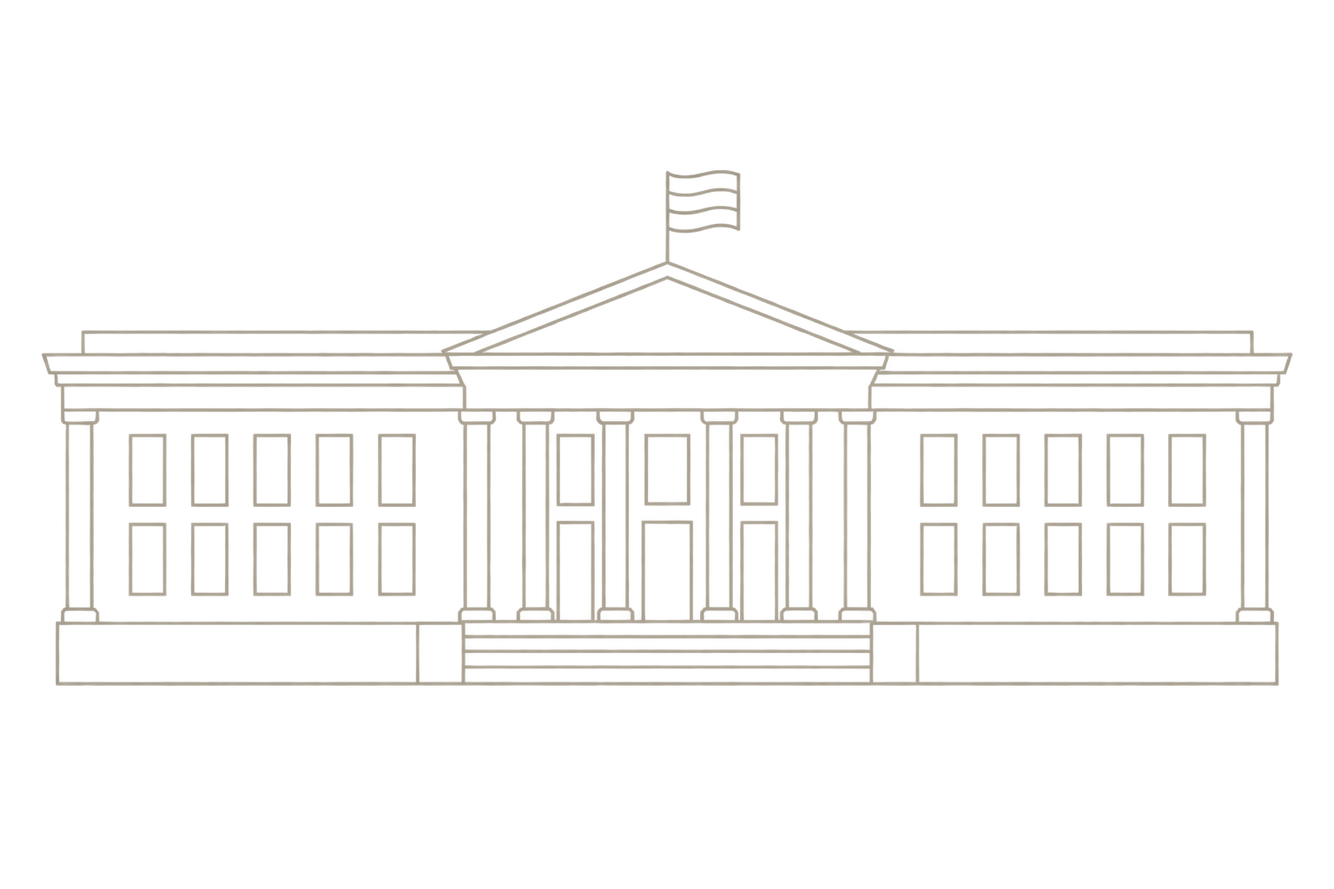
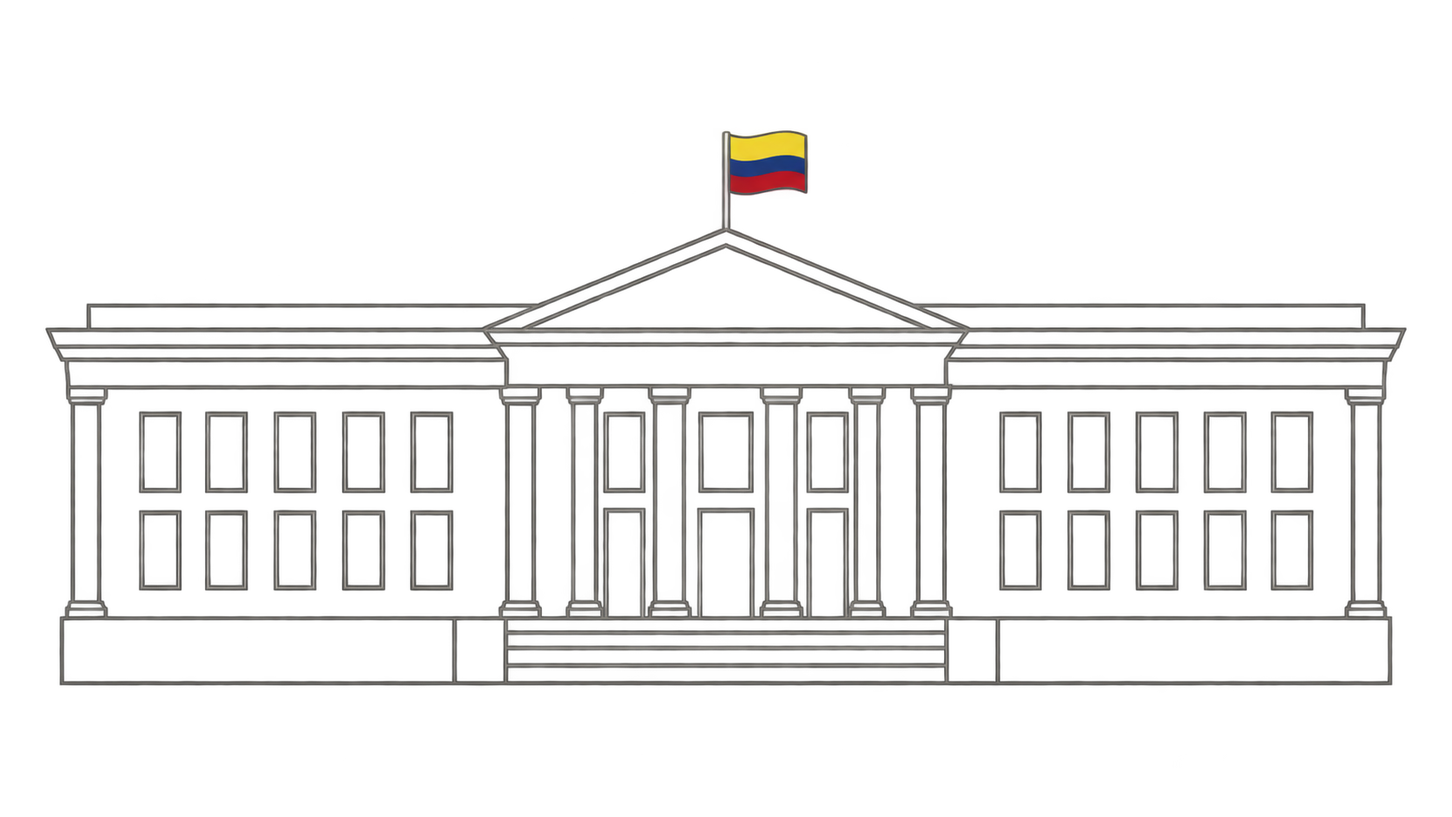
hero: glass effect on floating pills, reposition Tu informacion pill to the right, cache bust new bg drawings

Changed region(s): [[0.0312, 0.1541, 0.9688, 0.8629]]

diff --git a/app/globals.css b/app/globals.css
@@ -1,5 +1,5 @@
 :root{--ink:#2c2526;--muted:#736968;--purple:#6b2d3e;--purple-dark:#52222f;--lavender:#f1e8dc;--lavender-soft:#f7f2ea;--line:#e6ded0;--paper:#fbf8f3;--white:#fff;--peach:#f3ebe0;--danger:#9d374c;--radius:20px;--shadow:0 16px 50px rgba(44,37,38,0.07)}
-*{box-sizing:border-box}html{scroll-behavior:smooth;scroll-padding-top:28px}body{margin:0;background:var(--paper);color:var(--ink);font-family:Inter,ui-sans-serif,-apple-system,BlinkMacSystemFont,'Segoe UI',sans-serif;font-size:15px;line-height:1.6}button,input,select,textarea{font:inherit}button,a,input,select,textarea{-webkit-tap-highlight-color:transparent}button{cursor:pointer}button:disabled{cursor:not-allowed;opacity:.5}a{color:inherit;text-decoration:none}button{color:inherit}h1,h2,h3,h4,p{margin-top:0}h1,h2,h3{line-height:1.17;letter-spacing:-.035em}h1{font-size:48px}h2{font-size:34px}h3{font-size:21px}h4{margin-bottom:7px;letter-spacing:-.01em}p{color:var(--muted)}svg{flex-shrink:0;stroke-width:1.65}::selection{background:#f1d6dd}button:focus-visible,a:focus-visible,input:focus-visible,select:focus-visible,textarea:focus-visible,summary:focus-visible{outline:3px solid #6b2d3e;outline-offset:4px}button{transition:background .18s,transform .18s,box-shadow .18s}button:active:not(:disabled){transform:translateY(1px)}.wrap{width:min(1180px,calc(100% - 80px));margin-inline:auto}.button{display:inline-flex;align-items:center;justify-content:center;gap:11px;min-height:50px;padding:13px 25px;border:1px solid transparent;border-radius:25px;background:var(--purple);color:white;font-weight:600;font-size:14px;letter-spacing:.005em;box-shadow:0 4px 14px rgba(107,45,62,0.18)}.button:hover:not(:disabled){background:var(--purple-dark);box-shadow:0 7px 22px rgba(107,45,62,0.28)}.button.small{min-height:40px;padding:9px 18px;font-size:13px;border-radius:20px}.button.outline{background:transparent;border-color:#dcd1c0;color:var(--ink);box-shadow:none}.button.outline:hover:not(:disabled){background:var(--lavender);border-color:var(--line)}.button.light{background:white;color:var(--purple-dark)}.text-button,.quiet-link,.back-button{border:0;background:none;display:inline-flex;align-items:center;gap:8px;padding:0;color:var(--ink);font-size:13px;font-weight:600}.text-button:hover,.quiet-link:hover{text-decoration:underline}.icon-button{display:inline-flex;align-items:center;justify-content:center;width:36px;height:36px;padding:0;border:0;background:transparent;border-radius:9px}.icon-button:hover{background:var(--lavender)}.brand{font-size:28px;letter-spacing:-1.5px;font-weight:750;white-space:nowrap;color:var(--ink)}.brand>span:not(.brand-dot){font-weight:430}.brand-dot{color:var(--purple);font-weight:800}.public-header{height:104px;display:flex;align-items:center;justify-content:space-between}.public-header nav{display:flex;align-items:center;gap:35px;font-size:13px}.public-header nav a:hover{color:var(--purple)}.public-header nav .text-button{color:var(--ink);font-weight:400}.hero{display:grid;grid-template-columns:1fr 1.05fr;align-items:center;min-height:640px;gap:40px;padding-top:20px;padding-bottom:50px;position:relative;overflow:visible}.eyebrow{display:flex;align-items:center;gap:9px;font-size:12px;letter-spacing:.02em;color:var(--muted);margin-bottom:27px}.tiny-dot{display:inline-block;width:6px;height:6px;border-radius:50%;background:var(--purple);flex-shrink:0}.hero h1{font-size:clamp(46px,4.8vw,68px);font-weight:700;letter-spacing:-.045em;line-height:1.08;margin-bottom:25px;color:var(--ink)}.hero h1 em{font-family:Georgia,'Times New Roman',serif;font-weight:400;font-style:italic;color:var(--purple);letter-spacing:-.04em}.hero-description{font-size:17px;line-height:1.75;max-width:440px;color:var(--muted)}.hero-actions{display:flex;gap:25px;align-items:center;margin-top:31px}.quiet-link{color:var(--ink);font-size:13px;font-weight:600}.quiet-link span{font-size:16px;margin-left:4px}.hero-note{display:flex;gap:8px;align-items:center;font-size:11px;color:var(--muted);margin-top:26px}.hero-visual{position:relative;isolation:isolate;min-height:540px;width:100%;display:flex;align-items:center;justify-content:center;margin-top:10px}.bg-drawing-1{position:absolute;right:-200px;top:-20px;width:460px;height:auto;opacity:.30;pointer-events:none;z-index:-1;mix-blend-mode:multiply}.bg-drawing-2{position:absolute;right:-150px;top:270px;width:380px;height:auto;opacity:.20;pointer-events:none;z-index:-1;mix-blend-mode:multiply}.hero-img{max-width:100%;height:auto;display:block}.layer-expediente{position:absolute;left:-80px;top:110px;width:360px;z-index:1;transform:rotate(-15deg);filter:drop-shadow(0 14px 40px rgba(60,45,35,0.12));animation:folder-left-enter 1s cubic-bezier(0.16,1,0.3,1) both, float-y 5s ease-in-out infinite 1s;transition:transform 0.4s ease}.layer-expediente:hover{transform:rotate(-19deg) scale(1.02) translateX(-10px)}.layer-tutela{position:absolute;right:-160px;top:105px;width:390px;z-index:2;filter:drop-shadow(0 16px 45px rgba(50,40,30,0.11));animation:folder-right-enter 1.1s cubic-bezier(0.16,1,0.3,1) both 0.1s, float-y-alt 6.5s ease-in-out infinite 1.2s;transition:transform 0.4s ease}.layer-tutela:hover{transform:rotate(16deg) scale(1.02) translateX(10px)}.layer-tu-caso-wrapper{position:relative;top:-45px;width:430px;z-index:4;filter:drop-shadow(0 25px 50px rgba(50,30,40,0.16));animation:folder-center-enter 0.9s cubic-bezier(0.16,1,0.3,1) both 0.2s, float-y 7s ease-in-out infinite 1.1s;transition:transform 0.4s ease}.layer-tu-caso-wrapper:hover{transform:translateY(-8px) rotate(-3.5deg) scale(1.01)}.layer-tu-caso{width:100%;height:auto;display:block}.tu-caso-overlay{position:absolute;left:72px;right:98px;top:128px;bottom:40px;display:flex;flex-direction:column;pointer-events:none;overflow:hidden}@keyframes folder-left-enter{0%{opacity:0;transform:translate(-30px, 30px) rotate(-6deg) scale(0.95)}100%{opacity:1;transform:translate(0, 0) rotate(-12deg) scale(1)}}@keyframes folder-right-enter{0%{opacity:0;transform:translate(30px, 30px) rotate(4deg) scale(0.95)}100%{opacity:1;transform:translate(0, 0) rotate(12deg) scale(1)}}@keyframes folder-center-enter{0%{opacity:0;transform:translateY(40px) rotate(0deg) scale(0.95)}100%{opacity:1;transform:translateY(0) rotate(-3.5deg) scale(1)}}@keyframes float-y{0%,100%{translate:0 0}50%{translate:0 -8px}}@keyframes float-y-alt{0%,100%{translate:0 0}50%{translate:0 -12px}}.tu-caso-overlay h2{font-size:22px;line-height:1.15;font-weight:700;color:var(--ink);margin-bottom:6px}.tu-caso-overlay p{font-size:11.5px;color:var(--muted);margin-bottom:15px}.card-top-row{display:flex;align-items:center;justify-content:space-between;gap:6px;margin-bottom:10px}.card-top-row .overline{font-size:8px;font-weight:700;letter-spacing:.08em;color:var(--purple);margin:0;white-space:nowrap;overflow:hidden;text-overflow:ellipsis}.badge-progress{background:#efe7db;color:var(--ink);font-size:8.5px;font-weight:600;padding:2px 7px;border-radius:12px;border:1px solid #e2d6c4;white-space:nowrap;flex-shrink:0}.card-item-row{display:flex;align-items:center;gap:8px;background:#f9f5ee;border:1px solid #eee4d5;border-radius:12px;padding:9px 12px;margin-bottom:10px}.card-item-icon{width:30px;height:30px;border-radius:8px;background:white;display:flex;align-items:center;justify-content:center;color:var(--purple);border:1px solid #e7dcce;flex-shrink:0}.card-item-info{flex:1;min-width:0}.card-item-info b{display:block;font-size:11px;font-weight:700;color:var(--ink);white-space:nowrap;overflow:hidden;text-overflow:ellipsis}.card-item-info span{display:block;font-size:9.5px;color:var(--muted);margin-top:1px;white-space:nowrap;overflow:hidden;text-overflow:ellipsis}.check-badge{width:22px;height:22px;border-radius:50%;background:#387250;color:white;display:flex;align-items:center;justify-content:center;flex-shrink:0}.row-right-icons{display:flex;align-items:center;gap:6px;margin-left:auto}.avatar-group{display:flex;align-items:center}.avatar-thumb{width:24px;height:24px;border-radius:50%;border:2px solid white;margin-left:-6px;object-fit:cover;background:#6b2d3e;color:white;display:inline-flex;align-items:center;justify-content:center;font-size:9px;font-weight:700}.avatar-thumb.two{background:#4a242e}.floating-pill{position:absolute;z-index:6;background:white;border:1px solid #e7dcce;border-radius:30px;padding:8px 16px;box-shadow:0 10px 25px rgba(50,35,40,0.08);display:flex;align-items:center;gap:8px;font-size:11px;font-weight:500;color:var(--ink);white-space:nowrap}.fp-top-left{left:-105px;top:100px;padding:9px 16px;transform:rotate(-10deg);animation:float-y 4s ease-in-out infinite 1s}.fp-top-left div{line-height:1.2}.fp-top-left b{display:block;font-size:11px;font-weight:700}.fp-top-left span{font-size:10px;color:var(--muted)}.fp-top-right{right:20px;top:-30px;transform:rotate(3deg);animation:float-y-alt 5s ease-in-out infinite 1.5s}.fp-bottom-left{left:-90px;bottom:80px;transform:rotate(-5deg);animation:float-y 4.5s ease-in-out infinite 0.5s}.fp-bottom-center{left:60px;bottom:-10px;transform:rotate(-2deg);animation:float-y-alt 5.5s ease-in-out infinite 1.2s}.fp-bottom-right{right:-30px;bottom:20px;transform:rotate(8deg);animation:float-y 6s ease-in-out infinite 0.8s}.examples{text-align:center;padding:35px 0 65px}.examples p{font-size:13px;margin-bottom:18px;color:var(--muted);font-weight:500}.examples>div{display:flex;justify-content:center;gap:12px;flex-wrap:wrap}.example-pill{display:inline-flex;gap:12px;align-items:center;padding:10px 20px;border:1px solid #e2d6c5;border-radius:30px;background:#f3ede3;font-size:12px;color:var(--ink);font-weight:500}.example-pill:hover,.example-pill.active{background:#efe4d4;border-color:var(--purple);color:var(--purple);font-weight:600}.examples small{font-size:11px;display:block;margin-top:20px;color:var(--muted)}.how-section{background:#f5efe4;padding:75px 0}.section-heading{display:flex;justify-content:space-between;align-items:center;gap:20px;margin-bottom:31px}.section-heading h2{margin-bottom:0;font-weight:530}.section-heading p{font-size:13px;margin:0;line-height:1.8}.steps-grid{display:grid;grid-template-columns:repeat(3,1fr);gap:20px}.step-card{background:#fff;padding:29px;border-radius:17px;border:1px solid #ebe5f0}.step-top{display:flex;align-items:center;justify-content:space-between;color:var(--purple);margin-bottom:31px}.step-top span{font-size:11px;letter-spacing:.04em;color:#b7a3c7}.step-card h3{font-size:19px;font-weight:550;margin-bottom:14px}.step-card p{font-size:12px;line-height:1.9;margin-bottom:0}.privacy-section{display:grid;grid-template-columns:1fr 1fr;gap:85px;align-items:center;padding:100px 70px}.privacy-section h2{font-size:39px;font-weight:520}.privacy-section p{font-size:13px;max-width:400px}.privacy-art{height:286px;border:1px solid #e7deed;border-radius:50%;background:radial-gradient(ellipse,#eee5f5 0%,#f9f5fc 60%,#fcfbf9 70%);display:flex;align-items:center;justify-content:center;position:relative;color:var(--purple)}.privacy-art>img{width:78%;height:auto;border-radius:20px;box-shadow:0 14px 45px #6b4b8710;transform:rotate(-5deg)}.privacy-lock{position:absolute;left:25px;top:24px;width:49px;height:49px;border-radius:15px;background:#faf7fc;border:1px solid #ddcce9;display:flex;align-items:center;justify-content:center;color:var(--purple);box-shadow:0 10px 25px #6b4b8714}.privacy-art>svg{box-sizing:content-box;padding:29px;border:1px solid #ddcce9;border-radius:24px;background:#faf7fc;box-shadow:0 14px 45px #6b4b8710;transform:rotate(-8deg)}.privacy-art .tag{position:absolute;bottom:35px;right:0;font-size:11px;padding:8px 15px;transform:rotate(3deg)}.check-list{padding:0;list-style:none;margin:23px 0 0}.check-list li{display:flex;align-items:center;gap:9px;font-size:12px;color:var(--muted);margin-bottom:12px}.check-list svg{color:var(--purple)}.lawyer-banner{padding:39px 45px;background:#f2e9dc;border:1px solid #e4d7c6;border-radius:21px;display:flex;justify-content:space-between;align-items:center;gap:35px}.lawyer-banner h2{font-size:29px;font-weight:520;margin-bottom:11px}.lawyer-banner p{font-size:12px;margin:0;color:var(--muted)}.lawyer-banner .overline{font-size:8px;color:var(--purple)}.lawyer-banner .button{white-space:nowrap}.faq{display:grid;grid-template-columns:.85fr 1.15fr;gap:80px;padding-block:100px}.faq h2{font-size:32px;font-weight:500}.faq details{border-bottom:1px solid var(--line);padding:20px 0}.faq details:first-child{padding-top:0}.faq summary{list-style:none;font-size:13px;font-weight:550;cursor:pointer;display:flex;align-items:center;justify-content:space-between;gap:20px}.faq summary::-webkit-details-marker{display:none}.faq details p{font-size:12px;margin:15px 30px 0 0;line-height:1.85}.faq details[open] summary svg{transform:rotate(45deg)}.faq summary svg{transition:transform .2s;color:var(--purple)}.final-cta{text-align:center;padding:15px 0 85px}.final-cta>svg{color:var(--purple);margin-bottom:15px}.final-cta h2{font-size:31px;font-weight:500;margin-bottom:23px}footer{padding:28px 0;display:flex;align-items:center;gap:35px;border-top:1px solid var(--line)}footer .brand{font-size:23px}footer>span{font-size:10px;color:var(--muted)}footer>div{margin-left:auto;display:flex;gap:19px}footer button{background:none;border:0;padding:0;font-size:10px;color:var(--muted)}
+*{box-sizing:border-box}html{scroll-behavior:smooth;scroll-padding-top:28px}body{margin:0;background:var(--paper);color:var(--ink);font-family:Inter,ui-sans-serif,-apple-system,BlinkMacSystemFont,'Segoe UI',sans-serif;font-size:15px;line-height:1.6}button,input,select,textarea{font:inherit}button,a,input,select,textarea{-webkit-tap-highlight-color:transparent}button{cursor:pointer}button:disabled{cursor:not-allowed;opacity:.5}a{color:inherit;text-decoration:none}button{color:inherit}h1,h2,h3,h4,p{margin-top:0}h1,h2,h3{line-height:1.17;letter-spacing:-.035em}h1{font-size:48px}h2{font-size:34px}h3{font-size:21px}h4{margin-bottom:7px;letter-spacing:-.01em}p{color:var(--muted)}svg{flex-shrink:0;stroke-width:1.65}::selection{background:#f1d6dd}button:focus-visible,a:focus-visible,input:focus-visible,select:focus-visible,textarea:focus-visible,summary:focus-visible{outline:3px solid #6b2d3e;outline-offset:4px}button{transition:background .18s,transform .18s,box-shadow .18s}button:active:not(:disabled){transform:translateY(1px)}.wrap{width:min(1180px,calc(100% - 80px));margin-inline:auto}.button{display:inline-flex;align-items:center;justify-content:center;gap:11px;min-height:50px;padding:13px 25px;border:1px solid transparent;border-radius:25px;background:var(--purple);color:white;font-weight:600;font-size:14px;letter-spacing:.005em;box-shadow:0 4px 14px rgba(107,45,62,0.18)}.button:hover:not(:disabled){background:var(--purple-dark);box-shadow:0 7px 22px rgba(107,45,62,0.28)}.button.small{min-height:40px;padding:9px 18px;font-size:13px;border-radius:20px}.button.outline{background:transparent;border-color:#dcd1c0;color:var(--ink);box-shadow:none}.button.outline:hover:not(:disabled){background:var(--lavender);border-color:var(--line)}.button.light{background:white;color:var(--purple-dark)}.text-button,.quiet-link,.back-button{border:0;background:none;display:inline-flex;align-items:center;gap:8px;padding:0;color:var(--ink);font-size:13px;font-weight:600}.text-button:hover,.quiet-link:hover{text-decoration:underline}.icon-button{display:inline-flex;align-items:center;justify-content:center;width:36px;height:36px;padding:0;border:0;background:transparent;border-radius:9px}.icon-button:hover{background:var(--lavender)}.brand{font-size:28px;letter-spacing:-1.5px;font-weight:750;white-space:nowrap;color:var(--ink)}.brand>span:not(.brand-dot){font-weight:430}.brand-dot{color:var(--purple);font-weight:800}.public-header{height:104px;display:flex;align-items:center;justify-content:space-between}.public-header nav{display:flex;align-items:center;gap:35px;font-size:13px}.public-header nav a:hover{color:var(--purple)}.public-header nav .text-button{color:var(--ink);font-weight:400}.hero{display:grid;grid-template-columns:1fr 1.05fr;align-items:center;min-height:640px;gap:40px;padding-top:20px;padding-bottom:50px;position:relative;overflow:visible}.eyebrow{display:flex;align-items:center;gap:9px;font-size:12px;letter-spacing:.02em;color:var(--muted);margin-bottom:27px}.tiny-dot{display:inline-block;width:6px;height:6px;border-radius:50%;background:var(--purple);flex-shrink:0}.hero h1{font-size:clamp(46px,4.8vw,68px);font-weight:700;letter-spacing:-.045em;line-height:1.08;margin-bottom:25px;color:var(--ink)}.hero h1 em{font-family:Georgia,'Times New Roman',serif;font-weight:400;font-style:italic;color:var(--purple);letter-spacing:-.04em}.hero-description{font-size:17px;line-height:1.75;max-width:440px;color:var(--muted)}.hero-actions{display:flex;gap:25px;align-items:center;margin-top:31px}.quiet-link{color:var(--ink);font-size:13px;font-weight:600}.quiet-link span{font-size:16px;margin-left:4px}.hero-note{display:flex;gap:8px;align-items:center;font-size:11px;color:var(--muted);margin-top:26px}.hero-visual{position:relative;isolation:isolate;min-height:540px;width:100%;display:flex;align-items:center;justify-content:center;margin-top:10px}.bg-drawing-1{position:absolute;right:-200px;top:-20px;width:460px;height:auto;opacity:.30;pointer-events:none;z-index:-1;mix-blend-mode:multiply}.bg-drawing-2{position:absolute;right:-150px;top:270px;width:380px;height:auto;opacity:.20;pointer-events:none;z-index:-1;mix-blend-mode:multiply}.hero-img{max-width:100%;height:auto;display:block}.layer-expediente{position:absolute;left:-80px;top:110px;width:360px;z-index:1;transform:rotate(-15deg);filter:drop-shadow(0 14px 40px rgba(60,45,35,0.12));animation:folder-left-enter 1s cubic-bezier(0.16,1,0.3,1) both, float-y 5s ease-in-out infinite 1s;transition:transform 0.4s ease}.layer-expediente:hover{transform:rotate(-19deg) scale(1.02) translateX(-10px)}.layer-tutela{position:absolute;right:-160px;top:105px;width:390px;z-index:2;filter:drop-shadow(0 16px 45px rgba(50,40,30,0.11));animation:folder-right-enter 1.1s cubic-bezier(0.16,1,0.3,1) both 0.1s, float-y-alt 6.5s ease-in-out infinite 1.2s;transition:transform 0.4s ease}.layer-tutela:hover{transform:rotate(16deg) scale(1.02) translateX(10px)}.layer-tu-caso-wrapper{position:relative;top:-45px;width:430px;z-index:4;filter:drop-shadow(0 25px 50px rgba(50,30,40,0.16));animation:folder-center-enter 0.9s cubic-bezier(0.16,1,0.3,1) both 0.2s, float-y 7s ease-in-out infinite 1.1s;transition:transform 0.4s ease}.layer-tu-caso-wrapper:hover{transform:translateY(-8px) rotate(-3.5deg) scale(1.01)}.layer-tu-caso{width:100%;height:auto;display:block}.tu-caso-overlay{position:absolute;left:72px;right:98px;top:128px;bottom:40px;display:flex;flex-direction:column;pointer-events:none;overflow:hidden}@keyframes folder-left-enter{0%{opacity:0;transform:translate(-30px, 30px) rotate(-6deg) scale(0.95)}100%{opacity:1;transform:translate(0, 0) rotate(-12deg) scale(1)}}@keyframes folder-right-enter{0%{opacity:0;transform:translate(30px, 30px) rotate(4deg) scale(0.95)}100%{opacity:1;transform:translate(0, 0) rotate(12deg) scale(1)}}@keyframes folder-center-enter{0%{opacity:0;transform:translateY(40px) rotate(0deg) scale(0.95)}100%{opacity:1;transform:translateY(0) rotate(-3.5deg) scale(1)}}@keyframes float-y{0%,100%{translate:0 0}50%{translate:0 -8px}}@keyframes float-y-alt{0%,100%{translate:0 0}50%{translate:0 -12px}}.tu-caso-overlay h2{font-size:22px;line-height:1.15;font-weight:700;color:var(--ink);margin-bottom:6px}.tu-caso-overlay p{font-size:11.5px;color:var(--muted);margin-bottom:15px}.card-top-row{display:flex;align-items:center;justify-content:space-between;gap:6px;margin-bottom:10px}.card-top-row .overline{font-size:8px;font-weight:700;letter-spacing:.08em;color:var(--purple);margin:0;white-space:nowrap;overflow:hidden;text-overflow:ellipsis}.badge-progress{background:#efe7db;color:var(--ink);font-size:8.5px;font-weight:600;padding:2px 7px;border-radius:12px;border:1px solid #e2d6c4;white-space:nowrap;flex-shrink:0}.card-item-row{display:flex;align-items:center;gap:8px;background:#f9f5ee;border:1px solid #eee4d5;border-radius:12px;padding:9px 12px;margin-bottom:10px}.card-item-icon{width:30px;height:30px;border-radius:8px;background:white;display:flex;align-items:center;justify-content:center;color:var(--purple);border:1px solid #e7dcce;flex-shrink:0}.card-item-info{flex:1;min-width:0}.card-item-info b{display:block;font-size:11px;font-weight:700;color:var(--ink);white-space:nowrap;overflow:hidden;text-overflow:ellipsis}.card-item-info span{display:block;font-size:9.5px;color:var(--muted);margin-top:1px;white-space:nowrap;overflow:hidden;text-overflow:ellipsis}.check-badge{width:22px;height:22px;border-radius:50%;background:#387250;color:white;display:flex;align-items:center;justify-content:center;flex-shrink:0}.row-right-icons{display:flex;align-items:center;gap:6px;margin-left:auto}.avatar-group{display:flex;align-items:center}.avatar-thumb{width:24px;height:24px;border-radius:50%;border:2px solid white;margin-left:-6px;object-fit:cover;background:#6b2d3e;color:white;display:inline-flex;align-items:center;justify-content:center;font-size:9px;font-weight:700}.avatar-thumb.two{background:#4a242e}.floating-pill{position:absolute;z-index:6;background:rgba(255,255,255,0.75);backdrop-filter:blur(4px);-webkit-backdrop-filter:blur(4px);border:1px solid #e7dcce;border-radius:30px;padding:8px 16px;box-shadow:0 10px 25px rgba(50,35,40,0.08);display:flex;align-items:center;gap:8px;font-size:11px;font-weight:500;color:var(--ink);white-space:nowrap}.fp-top-left{left:-105px;top:100px;padding:9px 16px;transform:rotate(-10deg);animation:float-y 4s ease-in-out infinite 1s}.fp-top-left div{line-height:1.2}.fp-top-left b{display:block;font-size:11px;font-weight:700}.fp-top-left span{font-size:10px;color:var(--muted)}.fp-top-right{right:20px;top:-30px;transform:rotate(3deg);animation:float-y-alt 5s ease-in-out infinite 1.5s}.fp-bottom-left{left:-90px;bottom:80px;transform:rotate(-5deg);animation:float-y 4.5s ease-in-out infinite 0.5s}.fp-bottom-center{left:110px;bottom:-10px;transform:rotate(-2deg);animation:float-y-alt 5.5s ease-in-out infinite 1.2s}.fp-bottom-right{right:-30px;bottom:20px;transform:rotate(8deg);animation:float-y 6s ease-in-out infinite 0.8s}.examples{text-align:center;padding:35px 0 65px}.examples p{font-size:13px;margin-bottom:18px;color:var(--muted);font-weight:500}.examples>div{display:flex;justify-content:center;gap:12px;flex-wrap:wrap}.example-pill{display:inline-flex;gap:12px;align-items:center;padding:10px 20px;border:1px solid #e2d6c5;border-radius:30px;background:#f3ede3;font-size:12px;color:var(--ink);font-weight:500}.example-pill:hover,.example-pill.active{background:#efe4d4;border-color:var(--purple);color:var(--purple);font-weight:600}.examples small{font-size:11px;display:block;margin-top:20px;color:var(--muted)}.how-section{background:#f5efe4;padding:75px 0}.section-heading{display:flex;justify-content:space-between;align-items:center;gap:20px;margin-bottom:31px}.section-heading h2{margin-bottom:0;font-weight:530}.section-heading p{font-size:13px;margin:0;line-height:1.8}.steps-grid{display:grid;grid-template-columns:repeat(3,1fr);gap:20px}.step-card{background:#fff;padding:29px;border-radius:17px;border:1px solid #ebe5f0}.step-top{display:flex;align-items:center;justify-content:space-between;color:var(--purple);margin-bottom:31px}.step-top span{font-size:11px;letter-spacing:.04em;color:#b7a3c7}.step-card h3{font-size:19px;font-weight:550;margin-bottom:14px}.step-card p{font-size:12px;line-height:1.9;margin-bottom:0}.privacy-section{display:grid;grid-template-columns:1fr 1fr;gap:85px;align-items:center;padding:100px 70px}.privacy-section h2{font-size:39px;font-weight:520}.privacy-section p{font-size:13px;max-width:400px}.privacy-art{height:286px;border:1px solid #e7deed;border-radius:50%;background:radial-gradient(ellipse,#eee5f5 0%,#f9f5fc 60%,#fcfbf9 70%);display:flex;align-items:center;justify-content:center;position:relative;color:var(--purple)}.privacy-art>img{width:78%;height:auto;border-radius:20px;box-shadow:0 14px 45px #6b4b8710;transform:rotate(-5deg)}.privacy-lock{position:absolute;left:25px;top:24px;width:49px;height:49px;border-radius:15px;background:#faf7fc;border:1px solid #ddcce9;display:flex;align-items:center;justify-content:center;color:var(--purple);box-shadow:0 10px 25px #6b4b8714}.privacy-art>svg{box-sizing:content-box;padding:29px;border:1px solid #ddcce9;border-radius:24px;background:#faf7fc;box-shadow:0 14px 45px #6b4b8710;transform:rotate(-8deg)}.privacy-art .tag{position:absolute;bottom:35px;right:0;font-size:11px;padding:8px 15px;transform:rotate(3deg)}.check-list{padding:0;list-style:none;margin:23px 0 0}.check-list li{display:flex;align-items:center;gap:9px;font-size:12px;color:var(--muted);margin-bottom:12px}.check-list svg{color:var(--purple)}.lawyer-banner{padding:39px 45px;background:#f2e9dc;border:1px solid #e4d7c6;border-radius:21px;display:flex;justify-content:space-between;align-items:center;gap:35px}.lawyer-banner h2{font-size:29px;font-weight:520;margin-bottom:11px}.lawyer-banner p{font-size:12px;margin:0;color:var(--muted)}.lawyer-banner .overline{font-size:8px;color:var(--purple)}.lawyer-banner .button{white-space:nowrap}.faq{display:grid;grid-template-columns:.85fr 1.15fr;gap:80px;padding-block:100px}.faq h2{font-size:32px;font-weight:500}.faq details{border-bottom:1px solid var(--line);padding:20px 0}.faq details:first-child{padding-top:0}.faq summary{list-style:none;font-size:13px;font-weight:550;cursor:pointer;display:flex;align-items:center;justify-content:space-between;gap:20px}.faq summary::-webkit-details-marker{display:none}.faq details p{font-size:12px;margin:15px 30px 0 0;line-height:1.85}.faq details[open] summary svg{transform:rotate(45deg)}.faq summary svg{transition:transform .2s;color:var(--purple)}.final-cta{text-align:center;padding:15px 0 85px}.final-cta>svg{color:var(--purple);margin-bottom:15px}.final-cta h2{font-size:31px;font-weight:500;margin-bottom:23px}footer{padding:28px 0;display:flex;align-items:center;gap:35px;border-top:1px solid var(--line)}footer .brand{font-size:23px}footer>span{font-size:10px;color:var(--muted)}footer>div{margin-left:auto;display:flex;gap:19px}footer button{background:none;border:0;padding:0;font-size:10px;color:var(--muted)}
 /* Shared forms and feedback */
 .muted{color:var(--muted)}.microcopy{font-size:11px;line-height:1.7;color:var(--muted)}.preserve{white-space:pre-wrap;overflow-wrap:anywhere}.modal{border:1px solid var(--line);border-radius:23px;box-shadow:0 30px 100px #20132935;background:var(--paper);color:var(--ink);padding:29px;width:min(600px,calc(100% - 32px));max-height:90dvh;overflow:auto;overscroll-behavior:contain}.modal::backdrop{background:#29203766;backdrop-filter:blur(4px)}.modal-head{display:flex;align-items:flex-start;justify-content:space-between;gap:20px;margin-bottom:15px}.modal-head h2{font-size:27px;font-weight:550;max-width:430px;margin:0}.modal>p{font-size:13px}.form-stack{display:flex;flex-direction:column;gap:18px;margin-top:20px}.form-stack>.button{align-self:flex-start}.field{display:flex;flex-direction:column;gap:7px;font-size:12px;font-weight:550;color:var(--ink)}.field small{font-size:10px;line-height:1.6;font-weight:400;color:var(--muted)}input:not([type=checkbox]):not([type=file]),select,textarea{border:1px solid #dfd7e7;background:white;color:var(--ink);border-radius:10px;padding:11px 13px;width:100%;font-size:13px;min-width:0}textarea{resize:vertical;line-height:1.7}input::placeholder,textarea::placeholder{color:#a49bab;font-weight:400}input[type=checkbox]{accent-color:var(--purple);width:17px;height:17px;margin:2px 0 0;flex-shrink:0}select{min-height:43px}.form-grid{display:grid;grid-template-columns:1fr 1fr;gap:15px}.checkbox-line{display:flex;gap:11px;font-size:12px;align-items:flex-start;color:var(--muted);line-height:1.7}.specialties{border:1px solid var(--line);border-radius:12px;padding:14px;display:flex;gap:10px 18px;flex-wrap:wrap}.specialties legend{font-size:12px;font-weight:550}.specialties label{display:flex;gap:6px;font-size:12px}.notice-panel{padding:17px 20px;border:1px solid #dfd3e9;background:var(--lavender-soft);border-radius:13px;margin:16px 0;color:var(--purple-dark);font-size:12px;line-height:1.8}.notice-panel p{margin:8px 0;color:inherit;white-space:pre-wrap;overflow-wrap:anywhere}.notice-panel.error{border-color:#e8cbd3;color:var(--danger)}.notice-panel .text-button{margin-left:12px}.auth-links{display:flex;justify-content:space-between;gap:20px;margin-top:22px}.oauth-button{width:100%;display:flex;align-items:center;justify-content:center;gap:10px;min-height:46px;border:1px solid #d8c9e3;border-radius:11px;background:white;color:var(--ink);font-size:13px;font-weight:600}.oauth-button:hover:not(:disabled){background:var(--lavender);border-color:#c4add6}.auth-divider{display:flex;align-items:center;gap:12px;margin:17px 0 2px;color:var(--muted);font-size:10px}.auth-divider:before,.auth-divider:after{content:"";height:1px;background:var(--line);flex:1}.auth-divider span{white-space:nowrap}.auth-links button{border:0;background:none;padding:0;font-size:11px;color:var(--purple)}.info-paragraph{line-height:1.85;font-size:13px}.toast{position:fixed;z-index:1000;bottom:25px;left:50%;transform:translateX(-50%);background:#fff;border:1px solid #d7c6e2;border-radius:14px;box-shadow:0 8px 50px #30243d22;padding:15px 17px;display:flex;align-items:center;gap:12px;width:max-content;max-width:min(650px,calc(100% - 32px));font-size:12px;color:var(--purple-dark)}.toast.error{color:var(--danger);border-color:#e9c8d1}.toast button{background:none;border:0;display:flex;color:inherit;padding:4px}.toast span{overflow-wrap:anywhere;max-height:180px;overflow:auto}.danger{color:var(--danger)!important}.danger-bg{background:var(--danger)}
 /* Workspace */

diff --git a/components/Landing.tsx b/components/Landing.tsx
@@ -27,8 +27,8 @@ export default function Landing({onStart,onLawyer,onLogin,onInfo}:{onStart:()=>v
   <main>
    <section className="hero wrap">
      {/* Background Line Art Images - placed at hero level to bleed off viewport */}
-     <img src="/hero/bg-drawing-1.png" className="bg-drawing-1" alt="" />
-     <img src="/hero/bg-drawing-2.png" className="bg-drawing-2" alt="" />
+     <img src="/hero/bg-drawing-1.png?v=2" className="bg-drawing-1" alt="" />
+     <img src="/hero/bg-drawing-2.png?v=2" className="bg-drawing-2" alt="" />
 
      <div className="hero-copy">
       <div className="eyebrow"><span className="tiny-dot"/> Un buen comienzo para lo que sigue</div>
